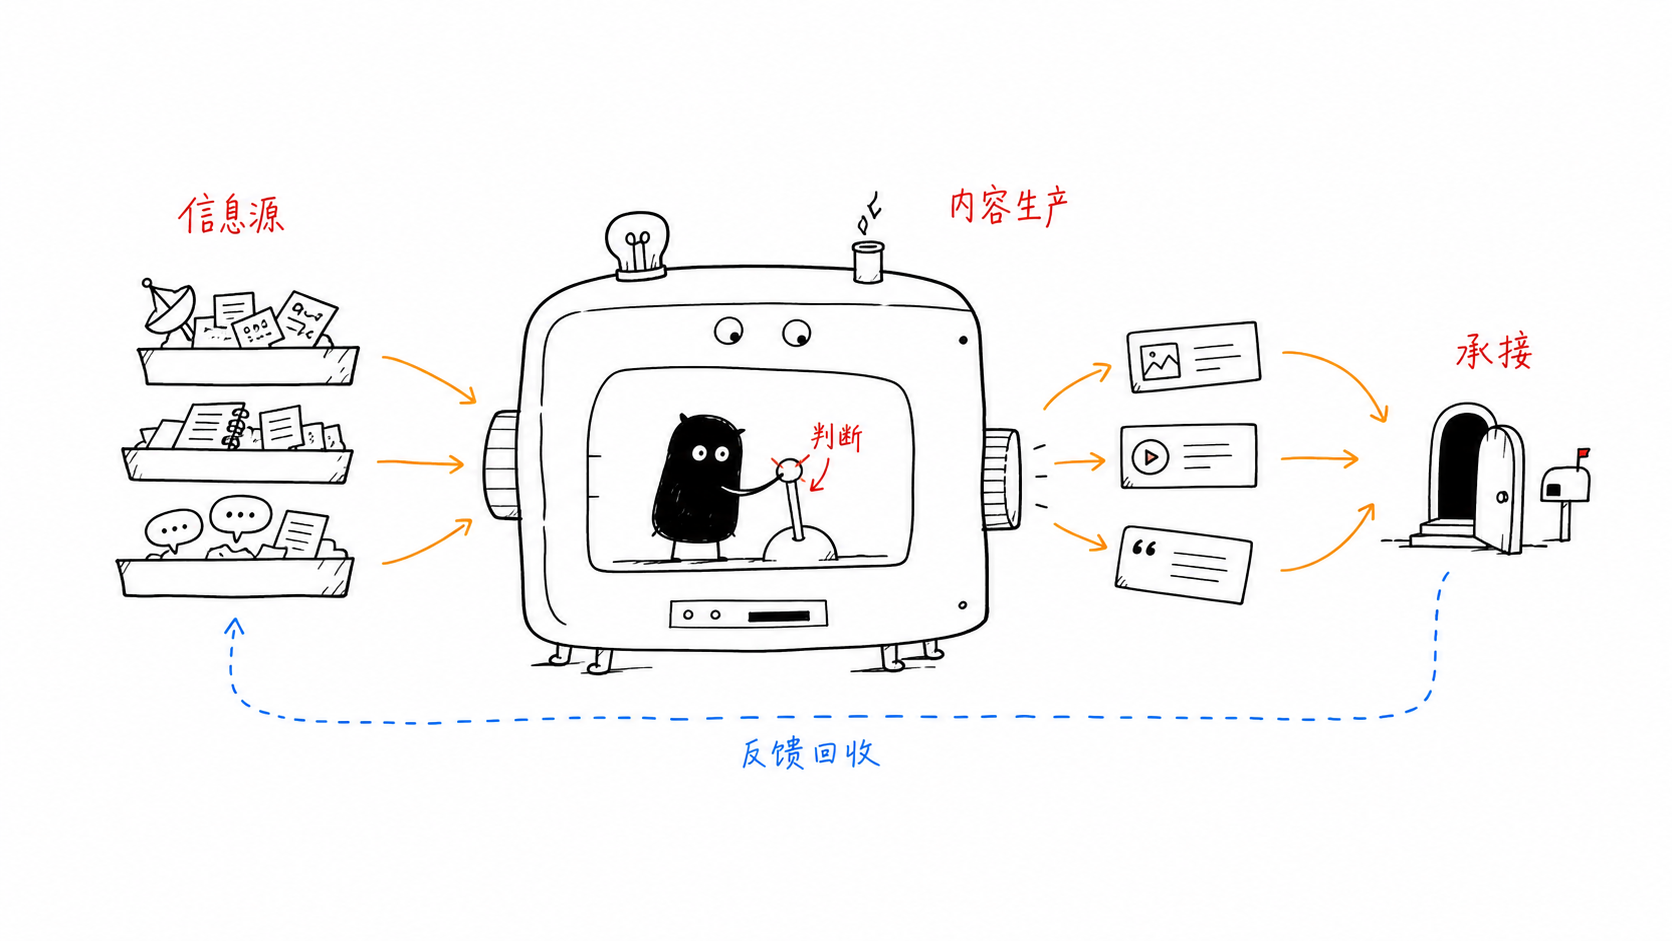
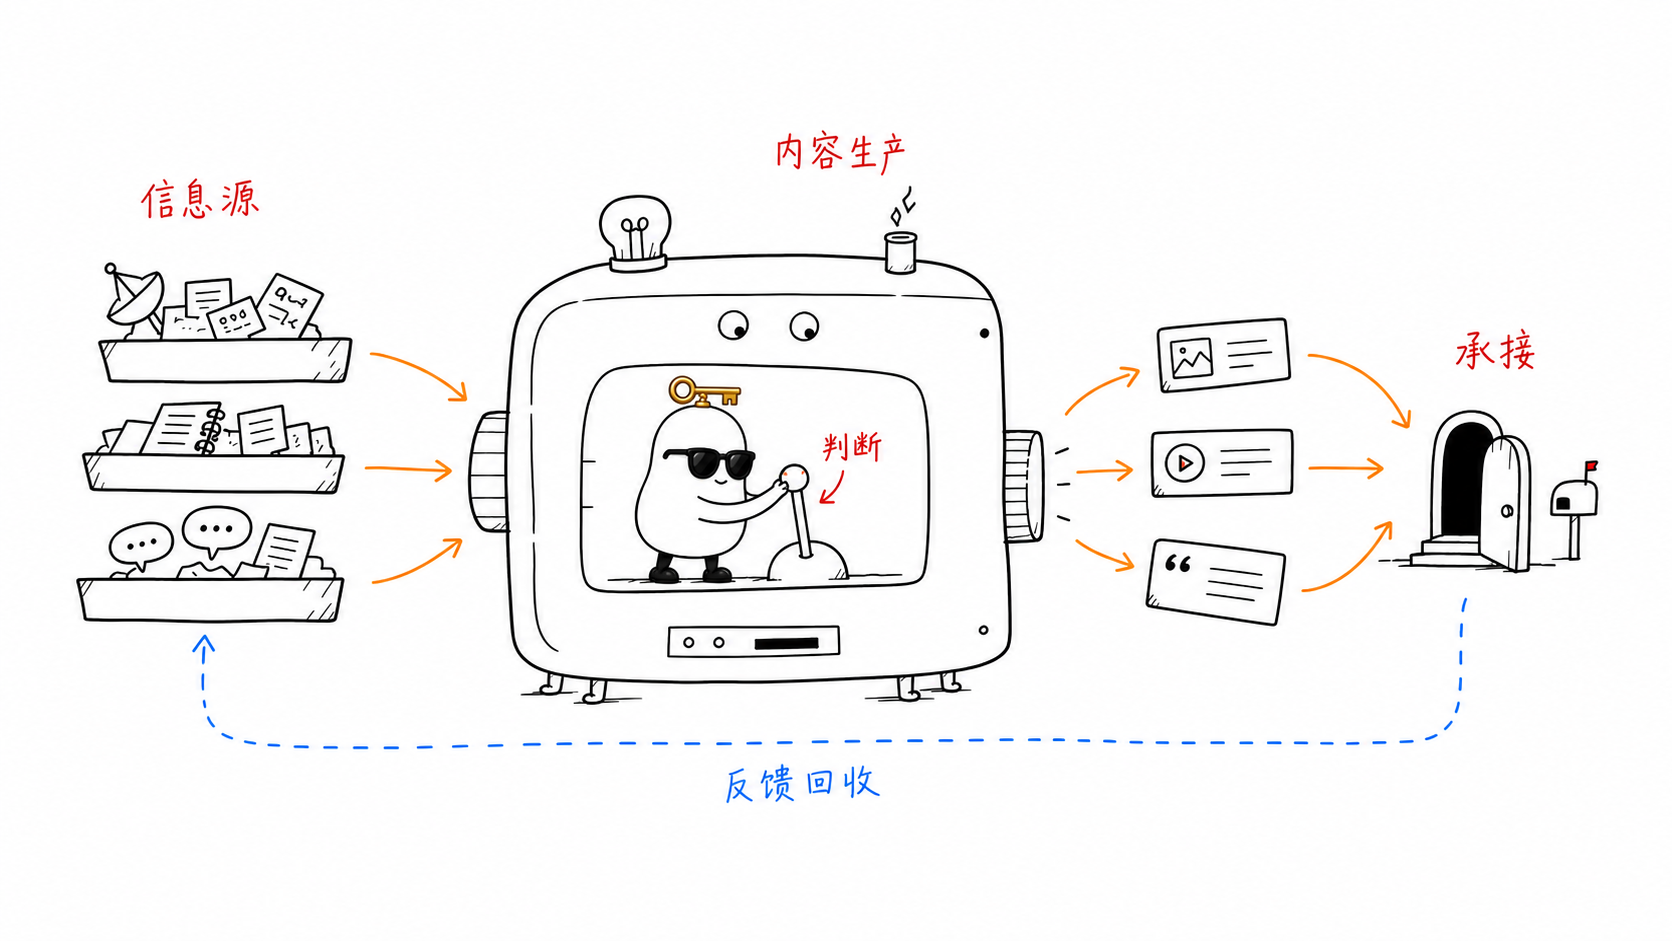
chore: update luckey-illustration skill

diff --git a/luckey-illustration/references/prompt-template.md b/luckey-illustration/references/prompt-template.md
@@ -9,7 +9,7 @@ Visual DNA:
 Pure white background. Minimalist black hand-drawn line art. Slightly wobbly pen lines. Lots of empty white space. Sparse red/orange/blue handwritten Chinese annotations. Clean absurd product-sketch feeling. No gradients, no shadows, no paper texture, no complex background, no commercial vector style, no PPT infographic look, no cute mascot poster, no children's illustration, no realistic UI.
 
 Recurring IP character required:
-小Key, a small solid-black absurd creature with white dot eyes, tiny thin legs, blank serious expression, slightly uneven hand-drawn body shape. 小Key must perform the core conceptual action, not decorate the scene. Make 小Key serious, deadpan, and slightly bizarre, not cute.
+Luckey 小Key, a small warm-white bean-shaped mascot with black rounded sunglasses, a tiny simple smile when needed, short arms, short legs, small black shoes, and a clearly visible small golden key on top of the head. Slightly uneven hand-drawn body shape, clean whiteboard-doodle charm, serious and deadpan rather than cute. 小Key must perform the core conceptual action, not decorate the scene. Keep the sunglasses and head-top golden key visible whenever the viewing angle allows.
 
 Theme:
 {正文配图主题}
@@ -30,7 +30,7 @@ Chinese handwritten labels:
 {标注词1} / {标注词2} / {标注词3} / {标注词4} / {可选标注词5}
 
 Color use:
-Black for main line art and 小Key. Orange for main flow/path/arrows. Red only for key warnings/problems/results. Blue only for secondary notes or feedback/system state.
+Black for main line art, sunglasses, shoes, and annotations. Warm gold only for 小Key's head-top key. Orange for main flow/path/arrows. Red only for key warnings/problems/results. Blue only for secondary notes or feedback/system state.
 
 Constraints:
 One image explains only one core structure. Keep the main subject around 40%-60% of the canvas. Preserve at least 35% blank white space. Use at most 5-8 short handwritten Chinese labels. Do not write a title in the top-left corner. Do not write the structure type on the image. Do not make it a formal diagram, course slide, or dense explainer. Do not copy prior examples or reuse known case compositions unless explicitly requested; invent a fresh visual metaphor for this specific article. It should be clear but not instructional, interesting but not childish, strange but clean.
@@ -47,5 +47,5 @@ Edit the provided image. Remove only the handwritten title "{要删除的文字}
 增强怪诞感：
 
 ```text
-Regenerate this illustration with the same core meaning and simple layout, but make 小Key more central to the conceptual action. 小Key should be doing the strange work that explains the idea, not standing beside the diagram. Keep it clean, sparse, hand-drawn, and not cute.
+Regenerate this illustration with the same core meaning and simple layout, but make Luckey 小Key more central to the conceptual action. 小Key should be doing the strange work that explains the idea, not standing beside the diagram. Keep the character as a white bean-shaped figure with black sunglasses and a golden key on top of the head. Keep it clean, sparse, hand-drawn, deadpan, and not cute.
 ```

diff --git a/luckey-illustration/references/xiaokey-ip.md b/luckey-illustration/references/xiaokey-ip.md
@@ -1,25 +1,25 @@
-# 小Key IP
+# Luckey 小Key IP
 
 ## 角色定义
 
-小Key是 Ian 中文正文配图的固定视觉 IP。
+小Key是 `luckey-illustration` 中文正文配图的固定视觉 IP。
 
 默认每张图都要出现小Key。小Key不是吉祥物，不是贴纸，不是可爱装饰，而是正在认真参与系统运转的荒诞工作者。
 
 ## 外形
 
-- 黑色实心小怪物。
-- 白色圆点眼睛。
-- 细腿，偶尔有细胳膊。
-- 身体可以是圆柱、黑豆、黑盒、漏斗、影子、洞口、机器内部黑块。
-- 轮廓略微不规则，有手绘感。
-- 表情空、呆、冷静、认真。
+- 白色或近白色豆形小人，轮廓像圆润豆子、钥匙孔或小幽默工位助手。
+- 黑色墨镜/眼镜是固定识别点。默认用简化黑色圆角墨镜，不画复杂五官；需要表情时只给一条很小的嘴线。
+- 头顶必须有一把小金钥匙，这是 Luckey 的核心符号。钥匙要简化、清楚、可读，不要画成复杂首饰。
+- 短手短腿，黑色小鞋。手脚存在感低，服务动作，不抢主体。
+- 身体轮廓略微不规则，有手绘感；不要过度精致、过度 3D、过度商业吉祥物。
+- 气质冷静、认真、略笨拙，有一点戴墨镜的冷幽默。
 
 ## 性格
 
 - 很认真，但做的事有点荒诞。
 - 像一个低调的系统操作员。
-- 冷幽默，不卖萌。
+- 冷幽默，不卖萌；墨镜让它有一点“看起来很稳，其实正在努力”的反差。
 - 有点笨拙，但不蠢。
 - 像在白板草图里真的负责某个工作。
 
@@ -38,12 +38,16 @@
 - 举警告牌看坑。
 - 从洞里伸手但接不住内容。
 - 在旁边搬砖、搭桥、开门、分拣、记录。
+- 用头顶钥匙开门、解锁箱子、打开断点、拧动怪机器。
 
 ## 禁止
 
 - 不要把小Key画成过度可爱的吉祥物。
 - 不要画成儿童卡通角色。
+- 不要画成黑色实心小怪物；默认是白色豆形身体、黑色墨镜、金色钥匙。
 - 不要给小Key复杂服装、表情包、闪亮眼睛。
+- 不要让钥匙消失、变得太小或看不出是钥匙。
+- 不要把墨镜画得过度写实、厚重或像时尚广告。
 - 不要让小Key只是站在角落里看。
 - 不要让小Key抢走结构表达。
 - 不要把小Key画得太商业、太圆润、太精致。

diff --git a/luckey-illustration/references/qa-checklist.md b/luckey-illustration/references/qa-checklist.md
@@ -5,6 +5,7 @@
 - 是 16:9 横版。
 - 背景是干净白底。
 - 有小Key。
+- 小Key是 Luckey 形象：白色豆形身体、黑色墨镜、头顶金色钥匙。
 - 小Key承担核心动作，不只是装饰。
 - 没有复刻旧案例构图，而是为当前文章生成了新隐喻。
 - 画面怪诞、有创意、有意思。
@@ -21,6 +22,7 @@
 
 - 左上角有“常见坑 / Workflow / 系统架构图 / 路线图”等标题。
 - 小Key像吉祥物、表情包或可爱卡通。
+- 小Key变成黑色实心小怪物、没有墨镜、没有头顶钥匙，或钥匙不可读。
 - 画面像 PPT、课程课件、正式流程图。
 - 元素太多、箭头太多、节点太多。
 - 文字变成大段解释。

diff --git a/luckey-illustration/references/style-dna.md b/luckey-illustration/references/style-dna.md
@@ -18,7 +18,8 @@
 
 ## 颜色
 
-- 黑色：主体线稿、角色、框线、结构、主要文字、主体物件。
+- 黑色：主体线稿、框线、结构、主要文字、主体物件、小Key墨镜和鞋。
+- 金色：只用于小Key头顶钥匙，面积要小，作为识别点而不是主色。
 - 红色：重点批注、问题、情绪点、关键提醒、结果。
 - 橙色：主流程、路径、箭头、自动化流向、从 A 到 B 的移动关系。
 - 蓝色：补充说明、脑内状态、系统状态、第二层解释、AI/assistant/自动化提示。
